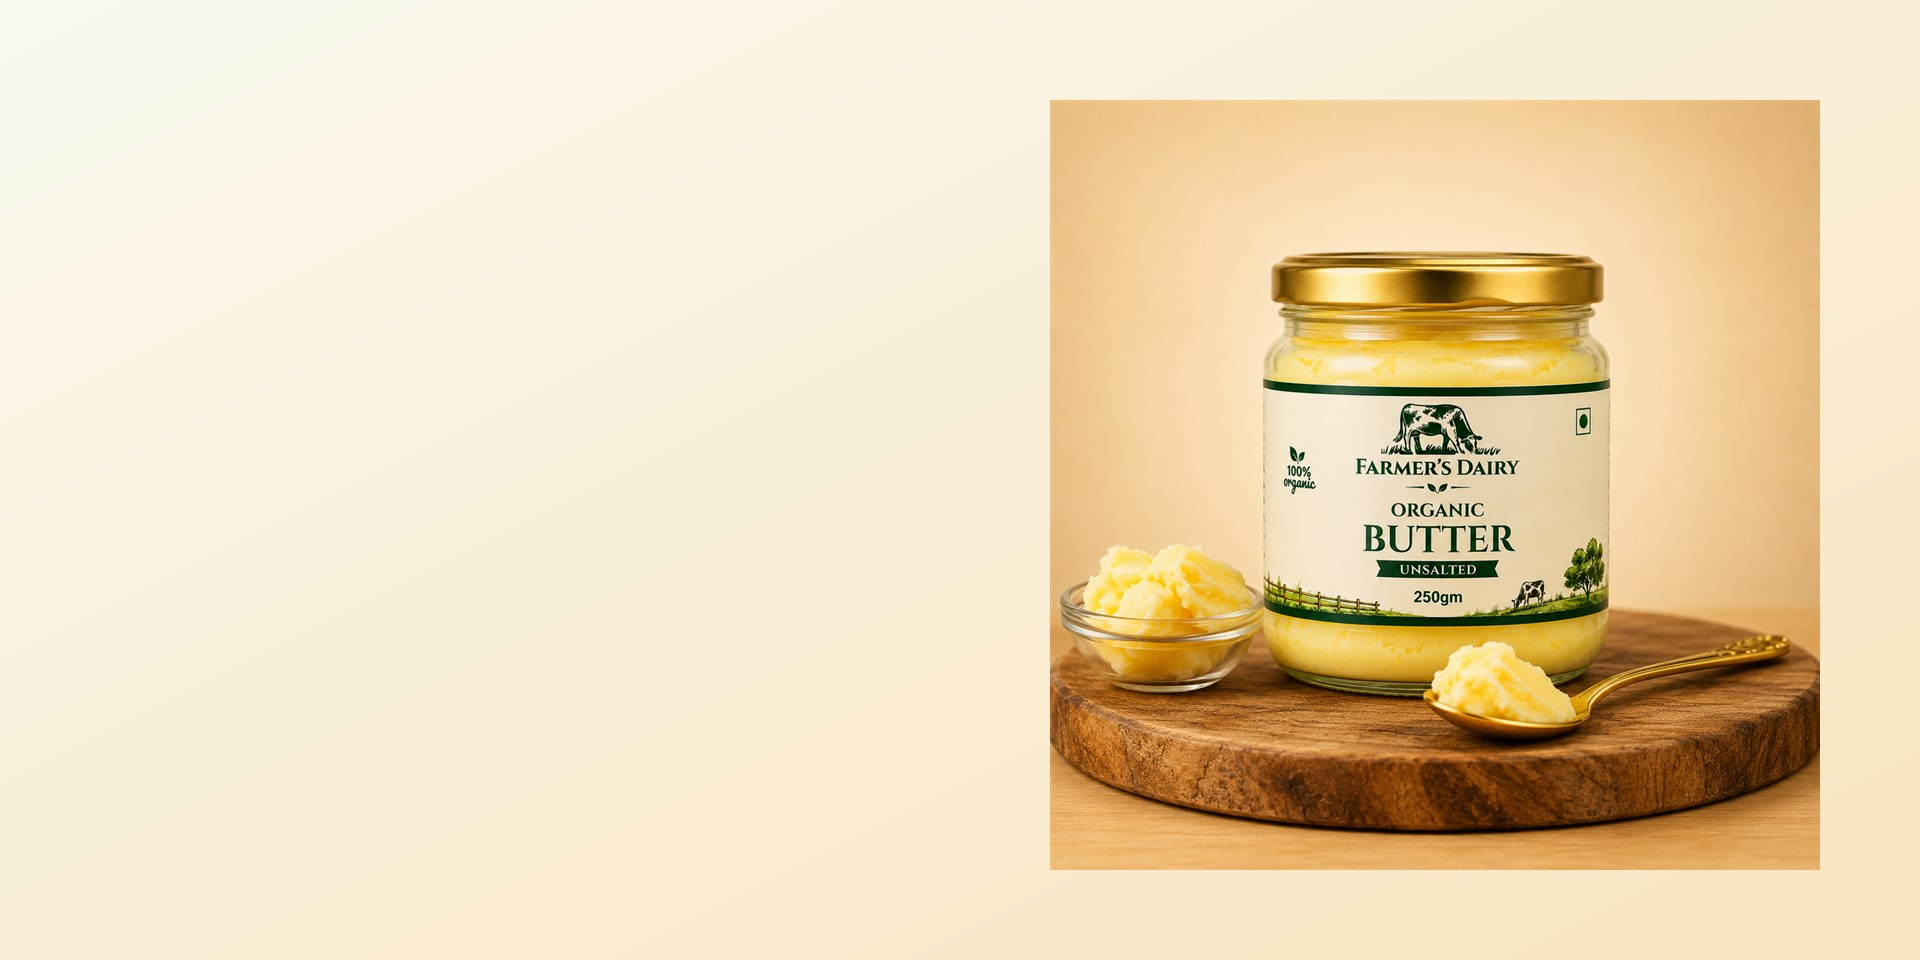
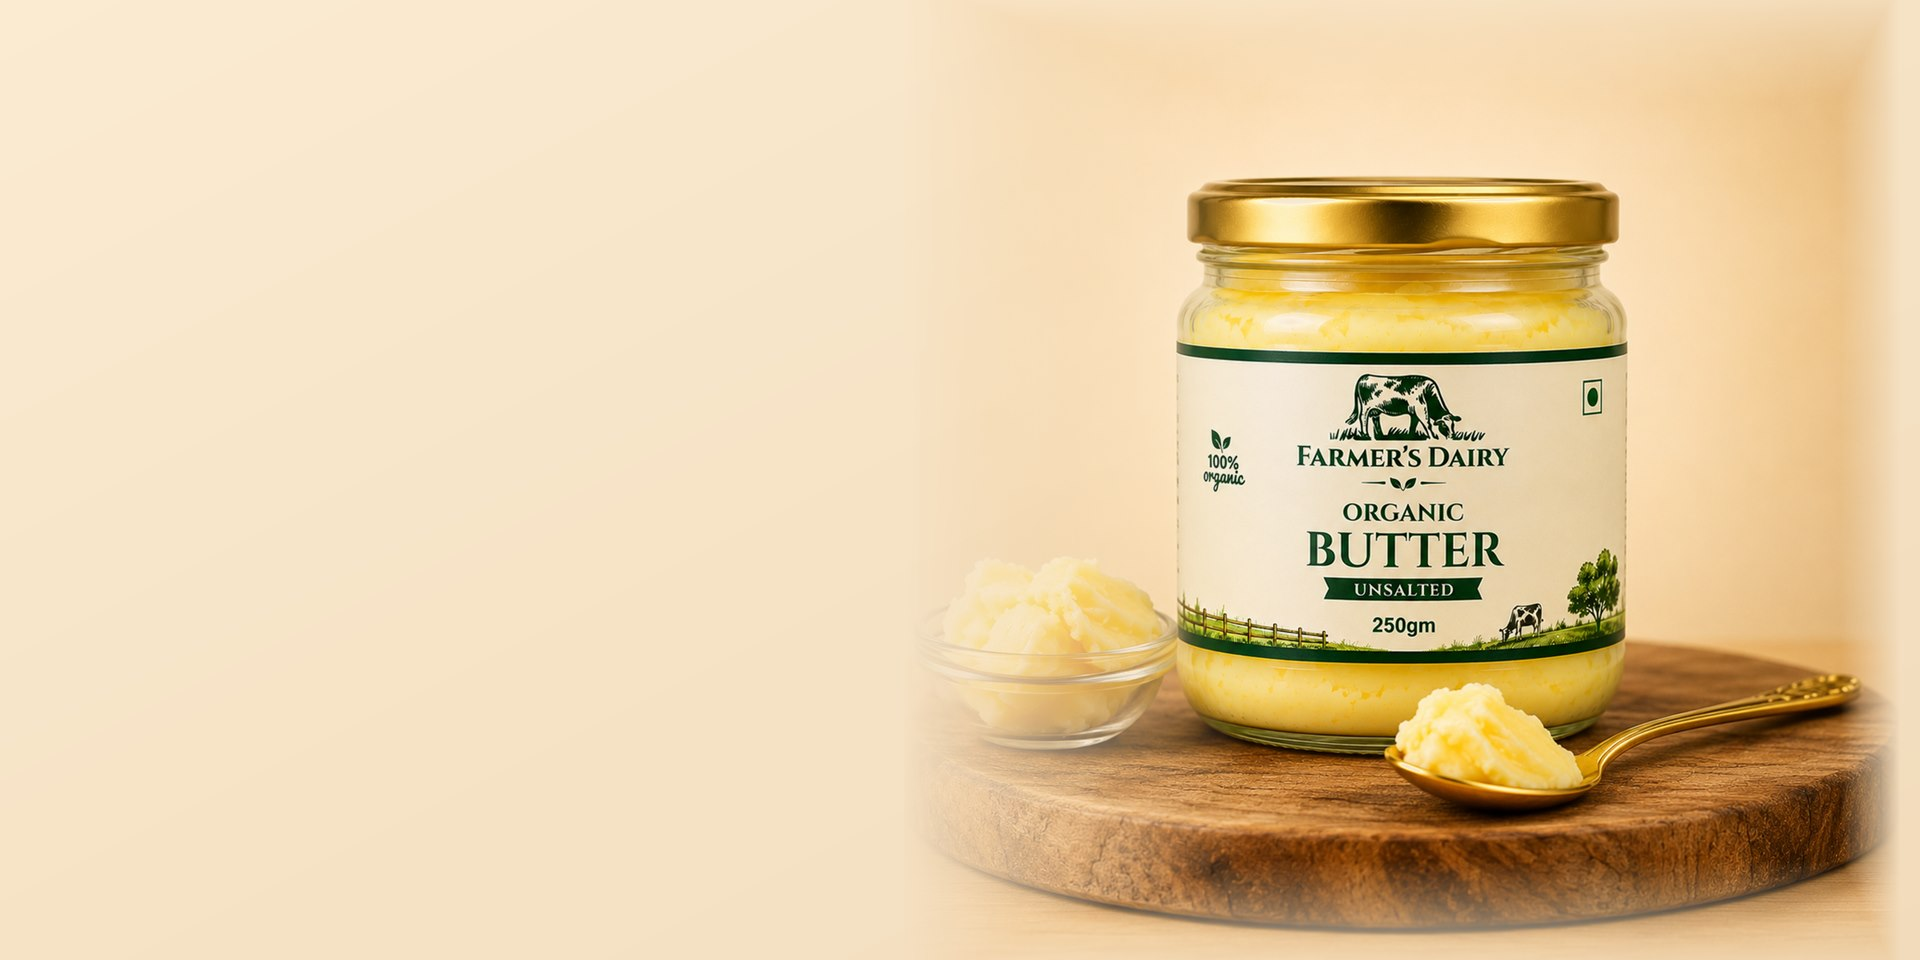
Blend hero images; adopt brand palette from oil packaging
Hero
- Rebuild the 4 hero background composites with a soft alpha
  feather on the product edges so each photo dissolves into the
  brand-cream background instead of reading as a rectangular sticker

Brand palette (sampled from wood-pressed-groundnut-oil.png)
- New primary green #1C4610 (from the "Coming Soon" stamp) replaces
  the previous teal
- New warm cream #FBEBD1 (light tint of the amber backdrop) becomes
  the page background
- New amber accent #F9BB6A (the packet backdrop) replaces the old
  butter-gold
- Tokens updated in tailwind.config.ts + app/globals.css :root; all
  RGB shadow/border values rewritten to match; theme-color and glass
  nav backdrop updated too

diff --git a/app/globals.css b/app/globals.css
@@ -23,50 +23,50 @@ body {
 
 @layer base {
   :root {
-    --background: 55 20% 93%;
-    --foreground: 173 30% 10%;
-    --card: 60 33% 98%;
-    --card-foreground: 173 30% 10%;
-    --popover: 60 33% 98%;
-    --popover-foreground: 173 30% 10%;
-    --primary: 174 46% 34%;
-    --primary-foreground: 60 33% 98%;
-    --secondary: 170 25% 90%;
-    --secondary-foreground: 173 30% 12%;
-    --muted: 168 16% 88%;
-    --muted-foreground: 174 12% 34%;
-    --accent: 40 86% 59%;
-    --accent-foreground: 173 40% 12%;
+    --background: 37 82% 90%;   /* Soft warm cream #FBEBD1 */
+    --foreground: 100 40% 10%;
+    --card: 40 82% 98%;
+    --card-foreground: 100 40% 10%;
+    --popover: 40 82% 98%;
+    --popover-foreground: 100 40% 10%;
+    --primary: 107 63% 17%;     /* Deep forest green #1C4610 */
+    --primary-foreground: 40 82% 98%;
+    --secondary: 36 65% 82%;
+    --secondary-foreground: 100 40% 12%;
+    --muted: 36 50% 85%;
+    --muted-foreground: 100 12% 34%;
+    --accent: 34 92% 70%;       /* Warm amber #F9BB6A */
+    --accent-foreground: 100 40% 12%;
     --destructive: 0 74% 52%;
     --destructive-foreground: 0 0% 98%;
-    --border: 170 14% 82%;
-    --input: 170 14% 82%;
-    --ring: 174 46% 34%;
-    --chart-1: 174 46% 40%;
-    --chart-2: 40 86% 55%;
-    --chart-3: 173 40% 20%;
+    --border: 36 42% 82%;
+    --input: 36 42% 82%;
+    --ring: 107 63% 17%;
+    --chart-1: 107 63% 22%;
+    --chart-2: 34 92% 65%;
+    --chart-3: 100 40% 20%;
     --chart-4: 16 55% 52%;
-    --chart-5: 168 30% 60%;
+    --chart-5: 100 30% 45%;
     --radius: 1rem;
 
     /* Brand tokens — consumed by the shared component classes below */
-    --color-milk: #f2f1ea; /* Cool porcelain-milk canvas */
-    --color-milk-deep: #e8e6da;
-    --color-cloud: #fbfbf7; /* Near-white card surface */
-    --color-pine: #0f2e2b; /* Deep teal-pine ink / dark bands */
-    --color-pine-soft: #1c4a44;
-    --color-teal: #2e7d74; /* Primary brand accent */
-    --color-teal-bright: #3fa093;
-    --color-butter: #f0b23e; /* Butter-gold accent */
-    --color-butter-deep: #d9922a;
+    --color-milk: #fbebd1;          /* Soft warm cream page background */
+    --color-milk-deep: #f5dbae;
+    --color-cloud: #fffbf3;          /* Near-white card surface */
+    --color-pine: #0f2e0a;           /* Deep forest ink */
+    --color-pine-soft: #204b14;
+    --color-teal: #1c4610;           /* Primary brand green */
+    --color-teal-bright: #2d6014;
+    --color-butter: #f9bb6a;         /* Warm amber accent */
+    --color-butter-deep: #e89a47;
     --color-clay: #c36a44;
-    --color-ink: #12211f; /* Display type */
-    --color-ink-soft: #3b4e4b; /* Body text */
+    --color-ink: #12210a;
+    --color-ink-soft: #3b4e32;
 
     /* Legacy variable aliases (existing classes still reference these) */
     --color-bg: var(--color-milk);
     --color-card: var(--color-cloud);
-    --color-mint-light: #dcebe8;
+    --color-mint-light: #f5dbae;
     --color-mint: var(--color-teal-bright);
     --color-green: var(--color-teal);
     --color-green-deep: var(--color-pine);
@@ -134,12 +134,12 @@ body {
     background-color: var(--color-teal);
     color: var(--color-cloud);
     border: 1px solid var(--color-teal);
-    box-shadow: 0 2px 0 rgba(15, 46, 43, 0.85), 0 14px 28px -12px rgba(46, 125, 116, 0.6);
+    box-shadow: 0 2px 0 rgba(15,46,10, 0.85), 0 14px 28px -12px rgba(28,70,16, 0.6);
     @apply relative inline-flex items-center justify-center px-7 py-3.5 rounded-full font-semibold tracking-wide text-[13px] uppercase transition-all duration-300 ease-out-expo hover:-translate-y-0.5 active:translate-y-0;
   }
   .btn-primary:hover {
     background-color: var(--color-pine-soft);
-    box-shadow: 0 3px 0 rgba(15, 46, 43, 0.9), 0 20px 36px -14px rgba(46, 125, 116, 0.7);
+    box-shadow: 0 3px 0 rgba(15,46,10, 0.9), 0 20px 36px -14px rgba(28,70,16, 0.7);
   }
   .btn-primary:disabled {
     opacity: 0.45;
@@ -152,7 +152,7 @@ body {
     background-color: var(--color-butter);
     color: var(--color-pine);
     border: 1px solid var(--color-butter-deep);
-    box-shadow: 0 2px 0 rgba(217, 146, 42, 0.9), 0 14px 28px -12px rgba(240, 178, 62, 0.65);
+    box-shadow: 0 2px 0 rgba(232,154,71, 0.9), 0 14px 28px -12px rgba(249,187,106, 0.65);
     @apply relative inline-flex items-center justify-center px-7 py-3.5 rounded-full font-bold tracking-wide text-[13px] uppercase transition-all duration-300 ease-out-expo hover:-translate-y-0.5 active:translate-y-0;
   }
   .btn-accent:hover {
@@ -174,13 +174,13 @@ body {
   /* ---------- Cards ---------- */
   .card {
     background-color: var(--color-cloud);
-    border: 1px solid rgba(15, 46, 43, 0.12);
-    box-shadow: 0 1px 0 rgba(15, 46, 43, 0.04), 0 18px 40px -26px rgba(15, 46, 43, 0.4);
+    border: 1px solid rgba(15,46,10, 0.12);
+    box-shadow: 0 1px 0 rgba(15,46,10, 0.04), 0 18px 40px -26px rgba(15,46,10, 0.4);
     @apply rounded-4xl p-6 transition-all duration-500 ease-out-expo;
   }
   .card:hover {
-    border-color: rgba(46, 125, 116, 0.4);
-    box-shadow: 0 2px 0 rgba(15, 46, 43, 0.05), 0 34px 60px -28px rgba(15, 46, 43, 0.5);
+    border-color: rgba(28,70,16, 0.4);
+    box-shadow: 0 2px 0 rgba(15,46,10, 0.05), 0 34px 60px -28px rgba(15,46,10, 0.5);
     transform: translateY(-6px);
   }
   .card-hover {
@@ -193,8 +193,8 @@ body {
 
   /* Sticky nav / chips glass */
   .glass {
-    background: rgba(242, 241, 234, 0.72);
-    border-bottom: 1px solid rgba(15, 46, 43, 0.1);
+    background: rgba(251, 235, 209, 0.78);
+    border-bottom: 1px solid rgba(15,46,10, 0.1);
     backdrop-filter: blur(18px) saturate(1.3);
     -webkit-backdrop-filter: blur(18px) saturate(1.3);
   }
@@ -213,7 +213,7 @@ body {
   }
 
   .rule {
-    border-top: 1px solid rgba(15, 46, 43, 0.16);
+    border-top: 1px solid rgba(15,46,10, 0.16);
   }
 
   .section-num {
@@ -259,7 +259,7 @@ body {
   .stamp {
     @apply inline-flex items-center rounded-full px-4 py-1.5 font-display font-semibold;
     background: var(--color-mint-light);
-    border: 1px solid rgba(46, 125, 116, 0.28);
+    border: 1px solid rgba(28,70,16, 0.28);
     color: var(--color-pine);
   }
 

diff --git a/tailwind.config.ts b/tailwind.config.ts
@@ -51,31 +51,33 @@ const config: Config = {
           foreground: "hsl(var(--card-foreground))",
         },
 
-        /* ---- Daybreak Creamery brand palette ---- */
-        milk: "#F2F1EA" /* Cool porcelain-milk canvas */,
-        "milk-deep": "#E8E6DA" /* Slightly deeper milk for banding */,
-        cloud: "#FBFBF7" /* Near-white surface for cards */,
-        pine: "#0F2E2B" /* Deep teal-pine — primary ink / dark sections */,
-        "pine-soft": "#1C4A44" /* Softer teal for large fills */,
-        teal: "#2E7D74" /* Fresh dairy teal — primary brand accent */,
-        "teal-bright": "#3FA093" /* Brighter teal for highlights/hovers */,
-        butter: "#F0B23E" /* Butter-gold accent (cream/ghee richness) */,
-        "butter-deep": "#D9922A" /* Deeper butter for hovers */,
+        /* ---- Farmer's Dairy brand palette (from client's product photography):
+               deep forest green primary + warm amber accent on a soft cream canvas.
+               Sampled directly from the wood-pressed-groundnut-oil packaging. ---- */
+        milk: "#FBEBD1" /* Soft warm cream canvas — page background */,
+        "milk-deep": "#F5DBAE" /* Deeper cream for banding */,
+        cloud: "#FFFBF3" /* Near-white surface for cards */,
+        pine: "#0F2E0A" /* Deep forest ink — dark sections */,
+        "pine-soft": "#204B14" /* Softer forest for large fills */,
+        teal: "#1C4610" /* Primary brand green (from Coming Soon stamp) */,
+        "teal-bright": "#2D6014" /* Brighter forest for highlights/hovers */,
+        butter: "#F9BB6A" /* Amber accent (from oil bottle backdrop) */,
+        "butter-deep": "#E89A47" /* Deeper amber for hovers */,
         clay: "#C36A44" /* Warm terracotta for tertiary accents */,
-        ink: "#12211F" /* Near-black teal for display type */,
-        "ink-soft": "#3B4E4B" /* Muted body text */,
+        ink: "#12210A" /* Near-black forest for display type */,
+        "ink-soft": "#3B4E32" /* Muted body text */,
 
         /* ---- Legacy aliases (remapped to the new palette) so existing
            shop/cart/checkout/legal pages inherit the reboot automatically ---- */
-        bg: "#F2F1EA",
-        "card-bg": "#FBFBF7",
-        "mint-light": "#DCEBE8",
-        mint: "#3FA093",
-        green: "#2E7D74",
-        "green-deep": "#0F2E2B",
-        text: "#3B4E4B",
-        cream: "#FBFBF7",
-        gold: "#F0B23E",
+        bg: "#FBEBD1",
+        "card-bg": "#FFFBF3",
+        "mint-light": "#F5DBAE",
+        mint: "#2D6014",
+        green: "#1C4610",
+        "green-deep": "#0F2E0A",
+        text: "#3B4E32",
+        cream: "#FFFBF3",
+        gold: "#F9BB6A",
       },
       borderRadius: {
         lg: "var(--radius)",
@@ -93,11 +95,11 @@ const config: Config = {
         tightest: "-0.045em",
       },
       boxShadow: {
-        soft: "0 1px 2px rgba(15,46,43,0.04), 0 10px 30px -14px rgba(15,46,43,0.16)",
+        soft: "0 1px 2px rgba(15,46,10,0.04), 0 10px 30px -14px rgba(15,46,10,0.16)",
         lifted:
-          "0 2px 6px rgba(15,46,43,0.06), 0 30px 60px -22px rgba(15,46,43,0.30)",
-        glow: "0 0 60px -10px rgba(63,160,147,0.55)",
-        butter: "0 14px 30px -14px rgba(217,146,42,0.6)",
+          "0 2px 6px rgba(15,46,10,0.06), 0 30px 60px -22px rgba(15,46,10,0.30)",
+        glow: "0 0 60px -10px rgba(45,96,20,0.55)",
+        butter: "0 14px 30px -14px rgba(232,154,71,0.6)",
       },
       transitionTimingFunction: {
         "out-expo": "cubic-bezier(0.16, 1, 0.3, 1)",

diff --git a/app/layout.tsx b/app/layout.tsx
@@ -72,7 +72,7 @@ export const metadata: Metadata = {
 };
 
 export const viewport: Viewport = {
-  themeColor: "#0F2E2B",
+  themeColor: "#1C4610",
   width: "device-width",
   initialScale: 1,
 };
